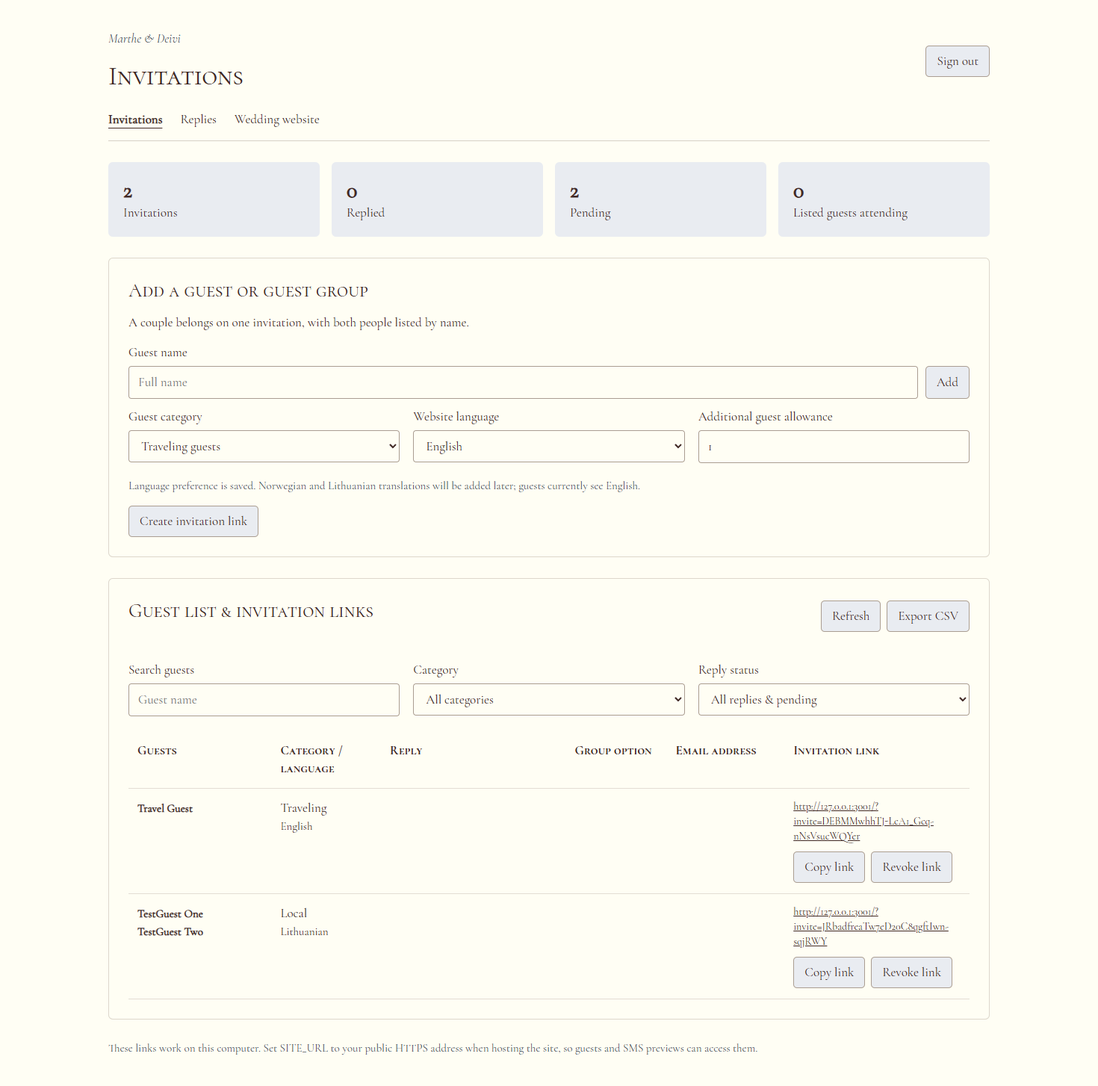
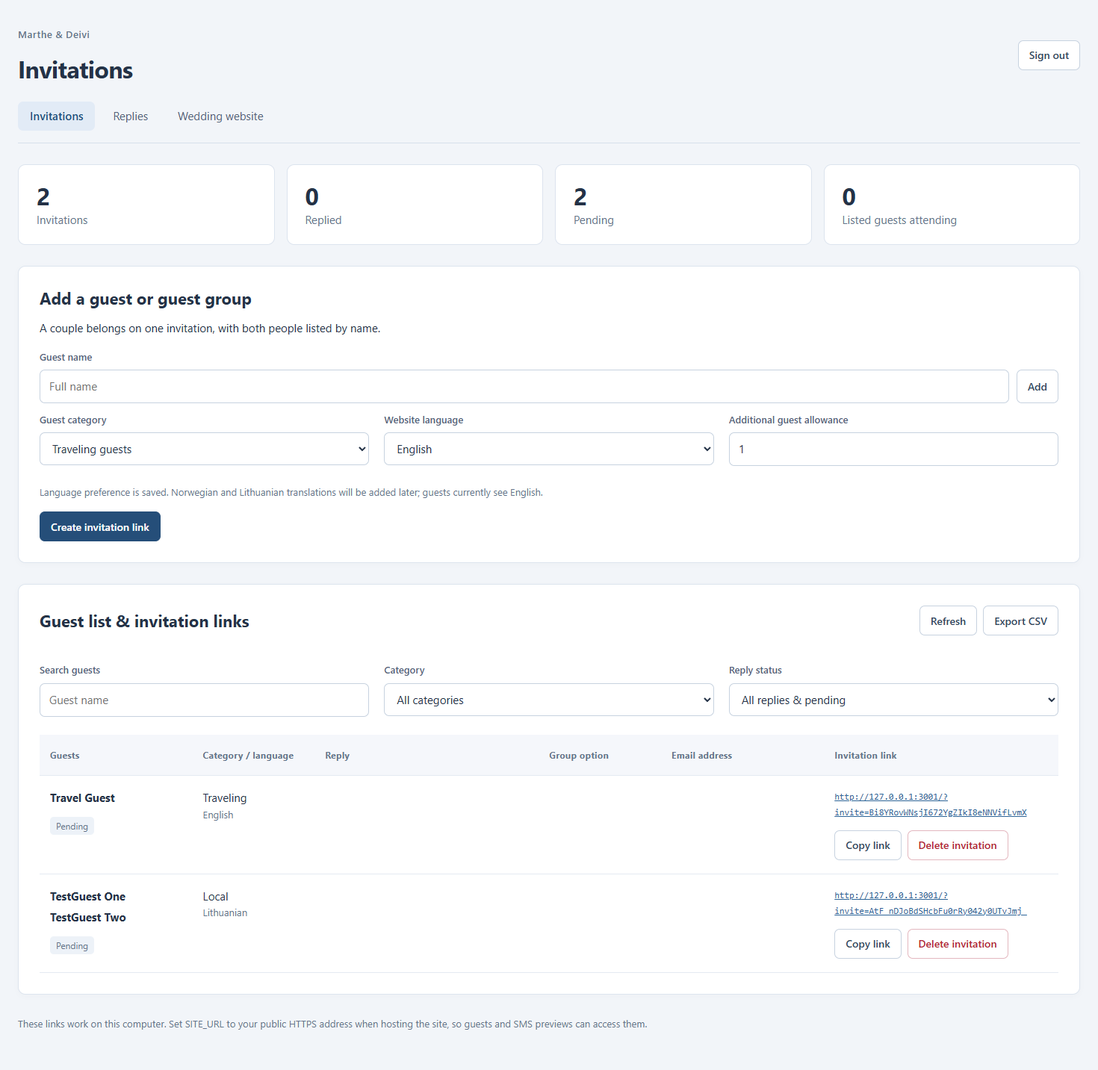
Refine hero reveal and invitation spacing, improve admin and add deletion

diff --git a/app/globals.css b/app/globals.css
@@ -31,9 +31,9 @@ img { display: block; max-width: none; }
 .site-header nav a:nth-child(5) { width: 35.4425px; }
 .hero { height: 893px; position: relative; overflow: hidden; }
 .hero-art { position: absolute; inset: 0; background: url("/images/hero-background.jpg") center 38.943% / 100% auto no-repeat; opacity: .6; }
-.hero-content { position: relative; height: 100%; width: 600px; margin: auto; padding: 32px 24px; display: flex; flex-direction: column; align-items: center; justify-content: center; gap: 64px; text-align: center; }
+.hero-content { position: relative; height: 100%; width: 600px; margin: auto; padding: 32px 24px 128px; display: flex; flex-direction: column; align-items: center; justify-content: center; gap: 64px; text-align: center; }
 .hero h1 { font: 400 60px/84px "Cormorant SC", Georgia, serif; text-transform: uppercase; }
-.hero h1 span { display: block; width: 100%; }
+.hero h1 > span { display: block; width: 100%; }
 
 .hero h1 .name-and { font-family: "Shelley Script", cursive; line-height: .8; text-transform: none; }
 
@@ -41,7 +41,7 @@ img { display: block; max-width: none; }
 .marriage-line time { font-weight: 700; font-style: italic; }
 /* The greeting controls the height; only the curtain sides stretch with it. */
 .home-intro { width: min(600px, 100%); margin: auto; container-type: inline-size; }
-.invitation-artboard { width: 100%; position: relative; padding: 46.333333cqw 0 15cqw; text-align: center; }
+.invitation-artboard { width: 100%; position: relative; padding: 54.333333cqw 0 15cqw; text-align: center; }
 .curtain-crop { position: absolute; width: 96.666667cqw; left: 1.666667cqw; top: 6.666667cqw; bottom: 8.333333cqw; overflow: hidden; opacity: .75; pointer-events: none; }
 .curtain-crop > div { position: absolute; left: 0; width: 100%; overflow: hidden; }
 .curtain-top { top: 0; height: 36.666667cqw; }
@@ -118,9 +118,9 @@ img { display: block; max-width: none; }
   .hero { height: 100lvh; min-height: 540px; }
   .hero-art { background-size: cover; background-position: center; }
   .countdown-artboard, .rsvp-artboard { margin: 0; left: 50%; transform: translateX(-50%) scale(calc(100vw / 600px)); transform-origin: center top; }
-  .hero-content { width: 100%; padding: 32px 24px; gap: 36px; }
+  .hero-content { width: 100%; padding: 32px 24px 128px; gap: 36px; }
   .hero h1 { width: 100%; font-size: clamp(40px, 11vw, 56px); line-height: 1.12; }
-  .hero h1 span { position: static; display: block; }
+  .hero h1 > span { position: static; display: block; }
   .hero h1 .name-and { font-size: .95em; line-height: .8; }
   .marriage-line { position: static; font-size: clamp(20px, 5.5vw, 28px); line-height: 1.3; }
   .marriage-line time { display: inline-block; margin-top: 6px; font-size: .9em; }
@@ -325,60 +325,70 @@ img { display: block; max-width: none; }
   .rsvp-options label { flex-basis: auto; }
 }
 /* Admin: private invitation management and reply tracking. */
-.admin-page { width: min(1180px, calc(100% - 40px)); margin: 40px auto; color: var(--brown); font-size: 17px; line-height: 24px; }
-.admin-page h1 { font: 400 36px/44px 'Cormorant SC', Georgia, serif; }
-.admin-page h2 { font: 400 26px/34px 'Cormorant SC', Georgia, serif; margin-bottom: 14px; }
+/* Administration uses its own readable, spacious visual style. */
+html:has(.admin-page), body:has(.admin-page) { background: #f2f5f9; }
+.admin-page { width: min(1680px, calc(100% - 48px)); min-height: 100svh; margin: 0 auto; padding: 36px 0; background: transparent; color: #243247; font: 400 15px/1.55 system-ui, -apple-system, 'Segoe UI', sans-serif; }
+.admin-page h1 { font: 650 32px/1.25 system-ui, sans-serif; letter-spacing: -.6px; }
+.admin-page h2 { font: 650 22px/1.35 system-ui, sans-serif; margin-bottom: 14px; }
 .admin-page p { margin-bottom: 16px; }
-.admin-eyebrow { color: var(--slate); font-style: italic; }
+.admin-eyebrow { color: #65758b; font-size: 13px; font-weight: 600; letter-spacing: .5px; }
 .admin-heading, .admin-section-heading { display: flex; justify-content: space-between; align-items: center; gap: 20px; margin-bottom: 24px; }
+.admin-section-heading h2 { margin: 0; }
 .admin-section-heading > div { display: flex; gap: 8px; }
-.admin-nav { display: flex; flex-wrap: wrap; gap: 24px; margin-bottom: 28px; padding-bottom: 16px; border-bottom: 1px solid #aa9d9277; }
-.admin-nav [aria-current] { font-weight: bold; text-decoration: underline; text-underline-offset: 6px; }
-.admin-page button { font: inherit; border: 1px solid #aa9d92; border-radius: 5px; background: #e9ecf1; color: var(--brown); padding: 8px 14px; cursor: pointer; min-height: 42px; }
+.admin-nav { display: flex; flex-wrap: wrap; gap: 8px; margin-bottom: 28px; padding-bottom: 16px; border-bottom: 1px solid #d7e0eb; }
+.admin-nav a { padding: 8px 16px; border-radius: 7px; color: #536379; }
+.admin-nav [aria-current] { font-weight: 600; color: #1f4e80; background: #e2ebf6; }
+.admin-page button { font: 500 14px/1.4 system-ui, sans-serif; border: 1px solid #c7d2df; border-radius: 7px; background: #fff; color: #304660; padding: 9px 14px; cursor: pointer; min-height: 40px; }
+.admin-page button:hover { background: #edf3fa; border-color: #95a9bf; }
+.admin-page button.admin-delete { color: #b42332; border-color: #e3b7bf; }
+.admin-page button.admin-delete:hover { background: #fff1f2; }
+.admin-page form > button { background: #254e79; border-color: #254e79; color: #fff; }
 .admin-page button:disabled, .rsvp-form-wrap button:disabled { opacity: .6; cursor: wait; }
-.admin-page button:focus-visible, .admin-page input:focus-visible, .admin-page textarea:focus-visible, .admin-page select:focus-visible { outline: 2px solid var(--slate); outline-offset: 3px; }
+.admin-page button:focus-visible, .admin-page input:focus-visible, .admin-page textarea:focus-visible, .admin-page select:focus-visible { outline: 2px solid #437eb4; outline-offset: 3px; }
 .admin-stats { display: grid; grid-template-columns: repeat(4, 1fr); gap: 16px; margin-bottom: 28px; }
-.admin-stats > div { padding: 20px; background: #e9ecf1; border-radius: 6px; }
-.admin-stats strong { display: block; font-size: 30px; line-height: 36px; }
-.admin-card { padding: 26px; border: 1px solid #aa9d9266; border-radius: 6px; margin-bottom: 28px; background: #fffef4; }
-.admin-page label { display: block; margin: 12px 0 6px; }
-.admin-page input:not([type='checkbox']), .admin-page textarea, .admin-page select { width: 100%; display: block; border: 1px solid #aa9d92; border-radius: 4px; padding: 9px 12px; min-height: 42px; background: transparent; color: var(--brown); font: inherit; }
-.admin-form-grid, .admin-filters { display: grid; grid-template-columns: repeat(3, 1fr); gap: 18px; margin-bottom: 20px; }
-.admin-hint { font-size: 15px; line-height: 21px; color: var(--slate); }
+.admin-stats > div { padding: 20px 24px; background: #fff; border: 1px solid #dce4ee; border-radius: 10px; color: #65758b; }
+.admin-stats strong { display: block; font-size: 32px; line-height: 42px; color: #243247; font-weight: 650; }
+.admin-card { padding: 28px; border: 1px solid #dce4ee; border-radius: 10px; margin-bottom: 28px; background: #fff; box-shadow: 0 2px 8px #24324705; }
+.admin-page label { display: block; margin: 12px 0 7px; font-size: 13px; font-weight: 600; color: #536379; }
+.admin-page input:not([type='checkbox']), .admin-page textarea, .admin-page select { width: 100%; display: block; border: 1px solid #c7d2df; border-radius: 7px; padding: 10px 12px; min-height: 44px; background: #fff; color: #243247; font: inherit; }
+.admin-form-grid, .admin-filters { display: grid; grid-template-columns: repeat(3, 1fr); gap: 20px; margin-bottom: 24px; }
+.admin-hint { font-size: 13px; line-height: 21px; color: #65758b; }
 .admin-table-wrap { overflow-x: auto; }
-.admin-page table { width: 100%; border-collapse: collapse; text-align: left; }
-.admin-page table { table-layout: fixed; min-width: 1000px; }
-.admin-page th:nth-child(1) { width: 17%; }
-.admin-page th:nth-child(2) { width: 13%; }
+.admin-page table { width: 100%; border-collapse: collapse; text-align: left; table-layout: fixed; min-width: 1100px; }
+.admin-page th:nth-child(1) { width: 15%; }
+.admin-page th:nth-child(2) { width: 12%; }
 .admin-page th:nth-child(3) { width: 22%; }
 .admin-page th:nth-child(4) { width: 12%; }
-.admin-page th:nth-child(5) { width: 14%; }
-.admin-page th:nth-child(6) { width: 22%; }
+.admin-page th:nth-child(5) { width: 16%; }
+.admin-page th:nth-child(6) { width: 23%; }
 .admin-page td { overflow-wrap: anywhere; }
-.admin-page th { font-family: 'Cormorant SC', Georgia, serif; }
-.admin-page td, .admin-page th { padding: 14px 12px; border-bottom: 1px solid #aa9d9255; vertical-align: top; }
-.admin-page td > span, .admin-page li span { display: block; font-size: 15px; }
-.admin-badge { display: inline-block !important; padding: 3px 7px; background: #e9ecf1; border-radius: 3px; margin-bottom: 6px; white-space: nowrap; }
-.admin-invite-url { display: block; max-width: 390px; overflow-wrap: anywhere; font-size: 14px; line-height: 20px; text-decoration: underline; }
-.admin-row-actions { display: flex; gap: 8px; margin-top: 10px; }
+.admin-page th { background: #f5f7fb; color: #65758b; font-size: 12px; font-weight: 650; letter-spacing: .3px; }
+.admin-page td, .admin-page th { padding: 18px 14px; border-bottom: 1px solid #e4eaf2; vertical-align: top; }
+.admin-page tbody tr:hover { background: #fafcff; }
+.admin-page td > span, .admin-page li span { display: block; font-size: 13px; color: #65758b; }
+.admin-page td[data-label='Guests'] > span:not(.admin-badge) { color: #243247; font-size: 15px; margin-bottom: 5px; }
+.admin-badge { display: inline-block !important; padding: 3px 8px; background: #edf2f8; border-radius: 5px; margin-top: 8px; font-size: 12px !important; }
+.admin-invite-url { display: block; overflow-wrap: anywhere; font: 12px/1.7 ui-monospace, Consolas, monospace; color: #2c6396; text-decoration: underline; }
+.admin-row-actions { display: flex; flex-wrap: wrap; gap: 8px; margin-top: 14px; }
 .admin-notes { white-space: pre-wrap; overflow-wrap: anywhere; }
-.admin-page summary { cursor: pointer; text-decoration: underline; }
+.admin-page summary { cursor: pointer; color: #2c6396; font-size: 13px; padding: 5px 0; }
+.admin-page details p { margin: 10px 0; font-size: 13px; color: #536379; }
 .admin-page details ul { padding-left: 20px; }
-.admin-login { max-width: 420px; margin: 100px auto; }
+.admin-login { max-width: 420px; padding-top: 80px; }
 .admin-login button { width: 100%; margin-top: 18px; }
 .admin-login > a { display: inline-block; margin-top: 25px; text-decoration: underline; }
-.invitation-unavailable { max-width: 500px; margin: 100px auto; padding: 24px; text-align: center; }
 .invitation-unavailable h1 { font: 400 32px/42px 'Cormorant SC', Georgia, serif; margin-bottom: 20px; }
 .invitation-unavailable p { margin-bottom: 20px; }
 .rsvp-review h3 { text-align: center; }
 .rsvp-form input::placeholder, .rsvp-form textarea::placeholder { color: #8a827d; opacity: .75; font-style: italic; }
 .rsvp-invitation-required { max-width: 440px; margin: 35px auto; font-size: 20px; line-height: 28px; text-align: center; }
 .sr-only { position: absolute; width: 1px; height: 1px; padding: 0; overflow: hidden; clip-path: inset(50%); white-space: nowrap; }
-.hero-fade { animation: hero-fade-in .9s ease-out both; }
-.name-marthe { animation-delay: .15s; }
-.name-and { animation-delay: 1.1s; }
-.name-deivi { animation-delay: 2.05s; }
-.marriage-line.hero-fade { animation-delay: 3s; }
+.hero-glyph { display: inline-block; animation: hero-ink-in .45s cubic-bezier(.22,.61,.36,1) both; animation-delay: var(--glyph-delay); }
+@keyframes hero-ink-in {
+  from { opacity: 0; clip-path: inset(-25% 100% -25% -35%); }
+  to { opacity: 1; clip-path: inset(-25% -35% -25% -35%); }
+}
+.hero-fade { animation: hero-fade-in .65s ease-out 2.65s both; }
 @keyframes hero-fade-in { from { opacity: 0; } to { opacity: 1; } }
 .reveal-ready { opacity: 0; translate: 0 10px; transition: opacity .85s ease, translate .85s cubic-bezier(.22,.61,.36,1); }
 .reveal-visible { opacity: 1; translate: 0 0; }
@@ -392,10 +402,12 @@ img { display: block; max-width: none; }
 .admin-email { overflow-wrap: anywhere; text-decoration: underline; }
 .admin-page td[data-label='Invitation link'] { min-width: 190px; }
 @media (prefers-reduced-motion: reduce) {
-  .hero-fade { animation: none; }
+  .hero-fade, .hero-glyph { animation: none; }
   .reveal-ready { opacity: 1; translate: none; transition: none; }
 }
 @media (max-width: 700px) {
+  .admin-page { width: calc(100% - 24px); padding: 24px 0; }
+  .admin-page h1 { font-size: 28px; }
   .admin-stats { grid-template-columns: repeat(2, 1fr); }
   .admin-form-grid, .admin-filters { grid-template-columns: 1fr; gap: 4px; }
   .admin-heading, .admin-section-heading { align-items: flex-start; flex-direction: column; }
@@ -405,6 +417,6 @@ img { display: block; max-width: none; }
   .admin-page thead { display: none; }
   .admin-page tr { border-bottom: 1px solid #aa9d9255; padding: 12px 0; }
   .admin-page td { padding: 8px 0; border: 0; overflow-wrap: anywhere; }
-  .admin-page td::before { content: attr(data-label); display: block; font: 400 16px/22px 'Cormorant SC', Georgia, serif; color: var(--slate); margin-bottom: 5px; }
+  .admin-page td::before { content: attr(data-label); display: block; font: 600 12px/20px system-ui, sans-serif; color: #65758b; margin-bottom: 5px; }
   .admin-row-actions { flex-wrap: wrap; }
 }

diff --git a/components/AdminDashboard.tsx b/components/AdminDashboard.tsx
@@ -10,6 +10,7 @@ function status(invitation: StoredInvitation) {
 export default function AdminDashboard({ siteUrl, view }: { siteUrl: string; view: "invitations" | "replies" }) {
   const [invitations, setInvitations] = useState<StoredInvitation[]>([]); const [loading, setLoading] = useState(true); const [error, setError] = useState(""); const [message, setMessage] = useState(""); const [busy, setBusy] = useState(false);
   const [names, setNames] = useState<string[]>([]); const [guestName, setGuestName] = useState(""); const nameInput = useRef<HTMLInputElement>(null); const [profile, setProfile] = useState("traveling"); const [language, setLanguage] = useState("en"); const [allowance, setAllowance] = useState(1);
+  const [deletingId, setDeletingId] = useState("");
   const [search, setSearch] = useState(""); const [category, setCategory] = useState("all"); const [replyStatus, setReplyStatus] = useState("all");
   async function load() { setError(""); try { const response = await fetch("/api/admin/invitations", { cache: "no-store" }); if (response.status === 401) { window.location.href = "/admin/login"; return; } const data = await response.json(); if (!response.ok) throw new Error(data.error); setInvitations(data.invitations); } catch (error) { setError(error instanceof Error ? error.message : "Could not load invitations."); } finally { setLoading(false); } }
   useEffect(() => { void load(); }, []);
@@ -21,7 +22,19 @@ export default function AdminDashboard({ siteUrl, view }: { siteUrl: string; vie
     setNames(current => [...current, name]); setGuestName(""); setError(""); nameInput.current?.focus();
   }
   async function create(event: FormEvent) { event.preventDefault(); const guestNames = guestName.trim() ? [...names, guestName.trim()] : names; if (!guestNames.length) { setError("Add at least one guest name."); nameInput.current?.focus(); return; } setBusy(true); setError(""); setMessage(""); try { const response = await fetch("/api/admin/invitations", { method: "POST", headers: { "Content-Type": "application/json" }, body: JSON.stringify({ names: guestNames, travelProfile: profile, language, additionalGuestAllowance: allowance }) }); const data = await response.json(); if (!response.ok) throw new Error(data.error); setInvitations(current => [data.invitation, ...current]); setNames([]); setGuestName(""); setMessage("Invitation created. Copy its link below to send by SMS."); } catch (error) { setError(error instanceof Error ? error.message : "Could not create invitation."); } finally { setBusy(false); } }
-  async function toggle(invitation: StoredInvitation) { setError(""); try { const response = await fetch("/api/admin/invitations", { method: "PATCH", headers: { "Content-Type": "application/json" }, body: JSON.stringify({ id: invitation.id, enabled: !invitation.enabled }) }); const data = await response.json(); if (!response.ok) throw new Error(data.error); setInvitations(current => current.map(item => item.id === invitation.id ? { ...item, enabled: !item.enabled } : item)); } catch (error) { setError(error instanceof Error ? error.message : "Could not update invitation."); } }
+  async function removeInvitation(invitation: StoredInvitation) {
+    const guests = invitation.guests.map(guest => guest.name).join(" & ");
+    if (!window.confirm(`Delete the invitation for ${guests}? This permanently removes the invitation and any saved reply. Their link will stop working.`)) return;
+    setDeletingId(invitation.id); setError(""); setMessage("");
+    try {
+      const response = await fetch("/api/admin/invitations", { method: "DELETE", headers: { "Content-Type": "application/json" }, body: JSON.stringify({ id: invitation.id }) });
+      const data = await response.json();
+      if (!response.ok) throw new Error(data.error);
+      setInvitations(current => current.filter(item => item.id !== invitation.id));
+      setMessage(`Invitation deleted for ${guests}.`);
+    } catch (error) { setError(error instanceof Error ? error.message : "Could not delete invitation."); }
+    finally { setDeletingId(""); }
+  }
   const link = (invitation: StoredInvitation) => `${siteUrl}/?invite=${invitation.token}`;
   const visible = invitations.filter(invitation => !invitation.demo && (category === "all" || invitation.travelProfile === category) && (replyStatus === "all" || status(invitation) === replyStatus) && `${invitation.label} ${invitation.guests.map(guest => guest.name).join(" ")}`.toLowerCase().includes(search.toLowerCase()));
   const realInvitations = invitations.filter(invitation => !invitation.demo);
@@ -38,12 +51,12 @@ export default function AdminDashboard({ siteUrl, view }: { siteUrl: string; vie
       <div className="admin-filters"><div><label htmlFor="admin-search">Search guests</label><input id="admin-search" value={search} onChange={event => setSearch(event.target.value)} placeholder="Guest name" /></div><div><label htmlFor="category-filter">Category</label><select id="category-filter" value={category} onChange={event => setCategory(event.target.value)}><option value="all">All categories</option><option value="traveling">Traveling</option><option value="local">Local</option></select></div><div><label htmlFor="reply-filter">Reply status</label><select id="reply-filter" value={replyStatus} onChange={event => setReplyStatus(event.target.value)}><option value="all">All replies & pending</option>{["Pending", "All attending", "Partly attending", "Declined"].map(value => <option key={value}>{value}</option>)}</select></div></div>
 
       {loading ? <p>Loading invitations…</p> : !visible.length ? <p>No invitations match yet.</p> : <div className="admin-table-wrap"><table><thead><tr><th>Guests</th><th>Category / language</th><th>Reply</th><th>Group option</th><th>Email address</th><th>Invitation link</th></tr></thead><tbody>{visible.map(invitation => <tr key={invitation.id}>
-        <td data-label="Guests">{invitation.guests.map(guest => <span key={guest.id}><strong>{guest.name}</strong></span>)}{!invitation.enabled && <span className="admin-badge">Link revoked</span>}</td>
+        <td data-label="Guests">{invitation.guests.map(guest => <span key={guest.id}><strong>{guest.name}</strong></span>)}<span className="admin-badge">{status(invitation)}</span></td>
         <td data-label="Category / language">{invitation.travelProfile === "traveling" ? "Traveling" : "Local"}<span>{languages[invitation.language]}</span></td>
         <td data-label="Reply">{invitation.response && <><ul className="admin-guest-replies">{invitation.response.guests.map(guest => <li key={guest.guestId}><strong>{guest.name}:</strong> {guest.attending ? "Yes" : "No"}</li>)}{invitation.response.additionalGuests.map(guest => <li key={guest.id}><strong>{guest.name} (plus one):</strong> Yes</li>)}</ul><details><summary>More details</summary>{[...invitation.response.guests, ...invitation.response.additionalGuests].filter(guest => guest.dietary).map((guest, index) => <p key={index} className="admin-notes">{guest.name} — Dietary: {guest.dietary}</p>)}{invitation.response.childrenNotes && <p className="admin-notes">Children under 5: {invitation.response.childrenNotes}</p>}{invitation.response.comments && <p className="admin-notes">Notes: {invitation.response.comments}</p>}{invitation.respondedAt && <p>Replied: {new Date(invitation.respondedAt).toLocaleString("en-GB", { timeZone: "Europe/Oslo" })}</p>}</details></>}</td>
         <td data-label="Group option">{invitation.response && (invitation.travelProfile === "traveling" ? invitation.response.hotelOffer : invitation.response.venueStay) && <><strong>{(invitation.travelProfile === "traveling" ? invitation.response.hotelOffer : invitation.response.venueStay) === "yes" ? "Yes" : "No"}</strong><span>{invitation.travelProfile === "traveling" ? "Kaunas hotel · Sep 3–4" : "Venue stay · Sep 4–5"}</span></>}</td>
         <td data-label="Email address">{invitation.response?.email && <a className="admin-email" href={`mailto:${invitation.response.email}`}>{invitation.response.email}</a>}</td>
-        <td data-label="Invitation link"><a className="admin-invite-url" href={link(invitation)} target="_blank" rel="noreferrer">{link(invitation)}</a><div className="admin-row-actions"><button type="button" onClick={async () => { try { await navigator.clipboard.writeText(link(invitation)); setMessage(`Link copied for ${invitation.guests.map(guest => guest.name).join(" & ")}.`); } catch { setError("Copy the visible invitation link manually."); } }}>Copy link</button><button type="button" onClick={() => void toggle(invitation)}>{invitation.enabled ? "Revoke link" : "Restore link"}</button></div></td>
+        <td data-label="Invitation link"><a className="admin-invite-url" href={link(invitation)} target="_blank" rel="noreferrer">{link(invitation)}</a><div className="admin-row-actions"><button type="button" onClick={async () => { try { await navigator.clipboard.writeText(link(invitation)); setMessage(`Link copied for ${invitation.guests.map(guest => guest.name).join(" & ")}.`); } catch { setError("Copy the visible invitation link manually."); } }}>Copy link</button><button type="button" className="admin-delete" disabled={!!deletingId} onClick={() => void removeInvitation(invitation)}>{deletingId === invitation.id ? "Deleting…" : "Delete invitation"}</button></div></td>
       </tr>)}</tbody></table></div>}
     </section>
     {siteUrl.includes("localhost") || siteUrl.includes("127.0.0.1") ? <p className="admin-hint">These links work on this computer. Set SITE_URL to your public HTTPS address when hosting the site, so guests and SMS previews can access them.</p> : null}

diff --git a/lib/wedding-database.ts b/lib/wedding-database.ts
@@ -11,6 +11,7 @@ type Database = {
   find(token: string): Promise<InvitationRow | undefined>;
   insert(row: InvitationRow): Promise<void>;
   enable(id: string, enabled: boolean): Promise<boolean>;
+  remove(id: string): Promise<boolean>;
   reply(id: string, update: ReplyUpdate): Promise<boolean>;
   failures(cutoff: number): Promise<number>;
   addFailure(time: number): Promise<void>;
@@ -34,6 +35,7 @@ function localDatabase(): Database {
     async find(token) { return db.prepare("SELECT * FROM invitations WHERE token=? AND enabled=1").get(token) as InvitationRow | undefined; },
     async insert(row) { db.prepare("INSERT INTO invitations(id,token,body,created_at,enabled,response,responded_at,draft) VALUES(?,?,?,?,?,?,?,?)").run(row.id, row.token, row.body, row.created_at, row.enabled, row.response, row.responded_at, row.draft); },
     async enable(id, enabled) { return db.prepare("UPDATE invitations SET enabled=? WHERE id=?").run(enabled ? 1 : 0, id).changes > 0; },
+    async remove(id) { return db.prepare("DELETE FROM invitations WHERE id=?").run(id).changes > 0; },
     async reply(id, update) { return db.prepare("UPDATE invitations SET response=?,draft=?,responded_at=? WHERE id=? AND enabled=1").run(update.response, update.draft, update.responded_at, id).changes > 0; },
     async failures(cutoff) { db.prepare("DELETE FROM login_failures WHERE created_at<?").run(cutoff); return (db.prepare("SELECT COUNT(*) AS total FROM login_failures").get() as { total: number }).total; },
     async addFailure(time) { db.prepare("INSERT INTO login_failures(created_at) VALUES(?)").run(time); },
@@ -62,6 +64,7 @@ function cloudDatabase(url: string, secret: string): Database {
     async find(token) { return (checked(await client.from("wedding_invitations").select("*").eq("token", token).eq("enabled", 1).maybeSingle()) as InvitationRow | null) || undefined; },
     async insert(row) { checked(await client.from("wedding_invitations").insert(row)); },
     async enable(id, enabled) { return !!checked(await client.from("wedding_invitations").update({ enabled: enabled ? 1 : 0 }).eq("id", id).select("id").maybeSingle()); },
+    async remove(id) { return !!checked(await client.from("wedding_invitations").delete().eq("id", id).select("id").maybeSingle()); },
     async reply(id, update) { return !!checked(await client.from("wedding_invitations").update(update).eq("id", id).eq("enabled", 1).select("id").maybeSingle()); },
     async failures(cutoff) {
       checked(await client.from("wedding_login_failures").delete().lt("created_at", cutoff));

diff --git a/app/api/admin/invitations/route.ts b/app/api/admin/invitations/route.ts
@@ -1,5 +1,5 @@
 import { isAdmin, checkOrigin, readJson, noCache } from "@/lib/server-request";
-import { createInvitation, listInvitations, setInvitationEnabled } from "@/lib/wedding-store";
+import { createInvitation, deleteInvitation, listInvitations, setInvitationEnabled } from "@/lib/wedding-store";
 
 export async function GET() {
   if (!await isAdmin()) return Response.json({ error: "Please sign in." }, { status: 401, headers: noCache });
@@ -14,4 +14,17 @@ export async function PATCH(request: Request) {
   if (!await isAdmin()) return Response.json({ error: "Please sign in." }, { status: 401 });
   try { checkOrigin(request); const value = await readJson(request); if (typeof value.id !== "string" || typeof value.enabled !== "boolean") throw new Error("Invalid invitation."); if (!await setInvitationEnabled(value.id, value.enabled)) return Response.json({ error: "Invitation not found." }, { status: 404 }); return Response.json({ ok: true }, { headers: noCache }); }
   catch (error) { return Response.json({ error: error instanceof Error ? error.message : "Could not update invitation." }, { status: 400 }); }
+}
+
+export async function DELETE(request: Request) {
+  if (!await isAdmin()) return Response.json({ error: "Please sign in." }, { status: 401, headers: noCache });
+  try {
+    checkOrigin(request);
+    const value = await readJson(request);
+    if (typeof value.id !== "string" || !/^[0-9a-f]{8}-[0-9a-f]{4}-[0-9a-f]{4}-[0-9a-f]{4}-[0-9a-f]{12}$/i.test(value.id)) throw new Error("Invalid invitation.");
+    if (!await deleteInvitation(value.id)) return Response.json({ error: "Invitation not found." }, { status: 404, headers: noCache });
+    return Response.json({ ok: true }, { headers: noCache });
+  } catch (error) {
+    return Response.json({ error: error instanceof Error ? error.message : "Could not delete invitation." }, { status: 400, headers: noCache });
+  }
 }

diff --git a/components/Hero.tsx b/components/Hero.tsx
@@ -1,12 +1,18 @@
+import type { CSSProperties } from "react";
+
+function DrawnText({ text, start }: { text: string; start: number }) {
+  return <>{Array.from(text).map((letter, index) => <span className="hero-glyph" key={index} style={{ "--glyph-delay": `${start + index * .08}s` } as CSSProperties}>{letter}</span>)}</>;
+}
+
 export default function Hero() {
   return (
     <section className="hero" aria-labelledby="couple-names">
       <div className="hero-art" aria-hidden="true" />
       <div className="hero-content">
         <h1 id="couple-names" aria-label="Marthe and Deivi">
-          <span className="name-marthe hero-fade" aria-hidden="true">Marthe</span>
-          <span className="name-and hero-fade" aria-hidden="true">and</span>
-          <span className="name-deivi hero-fade" aria-hidden="true">Deivi</span>
+          <span className="name-marthe" aria-hidden="true"><DrawnText text="Marthe" start={.15} /></span>
+          <span className="name-and" aria-hidden="true"><DrawnText text="and" start={1.08} /></span>
+          <span className="name-deivi" aria-hidden="true"><DrawnText text="Deivi" start={1.77} /></span>
         </h1>
         <p className="marriage-line hero-fade">are getting married<br /><time dateTime="2027-09-04" aria-label="September 4, 2027">04.09.27</time></p>
       </div>

diff --git a/lib/wedding-store.ts b/lib/wedding-store.ts
@@ -40,6 +40,10 @@ export async function setInvitationEnabled(id: string, enabled: boolean) {
   return db().enable(id, enabled);
 }
 
+export async function deleteInvitation(id: string) {
+  return db().remove(id);
+}
+
 export function publicInvitation(record: StoredInvitation): Invitation {
   return { id: record.id, guests: record.guests, language: record.language, travelProfile: record.travelProfile, additionalGuestAllowance: record.additionalGuestAllowance };
 }

diff --git a/docs/ADMIN_AND_INVITATIONS.md b/docs/ADMIN_AND_INVITATIONS.md
@@ -20,7 +20,7 @@ Traveling invitations show only the Kaunas group hotel offer for September 3–4
 
 Both admin lists show six columns: Guests, Category / language, Reply, Group option, Email address, and Invitation link. Individual guest Yes/No answers (including plus ones) are visible directly. Reply, accommodation and email cells stay empty until a reply is received. Group option identifies the relevant Kaunas hotel or venue stay. More details expands dietary notes, under-five details, comments and reply time. Search/status/category filters, refresh, and CSV export are included. Export omits invitation tokens and escapes spreadsheet formula prefixes. Under-fives are notes, not included in the structured listed-guest attendance total.
 
-Links can be revoked/restored without deleting attendance history. Invalid/revoked links show an unavailable page and cannot submit replies.
+The Delete invitation action asks for confirmation, then permanently removes the invitation and its saved reply and draft. Deleted links show an unavailable page and cannot submit replies.
 
 ## Storage and hosting
 
